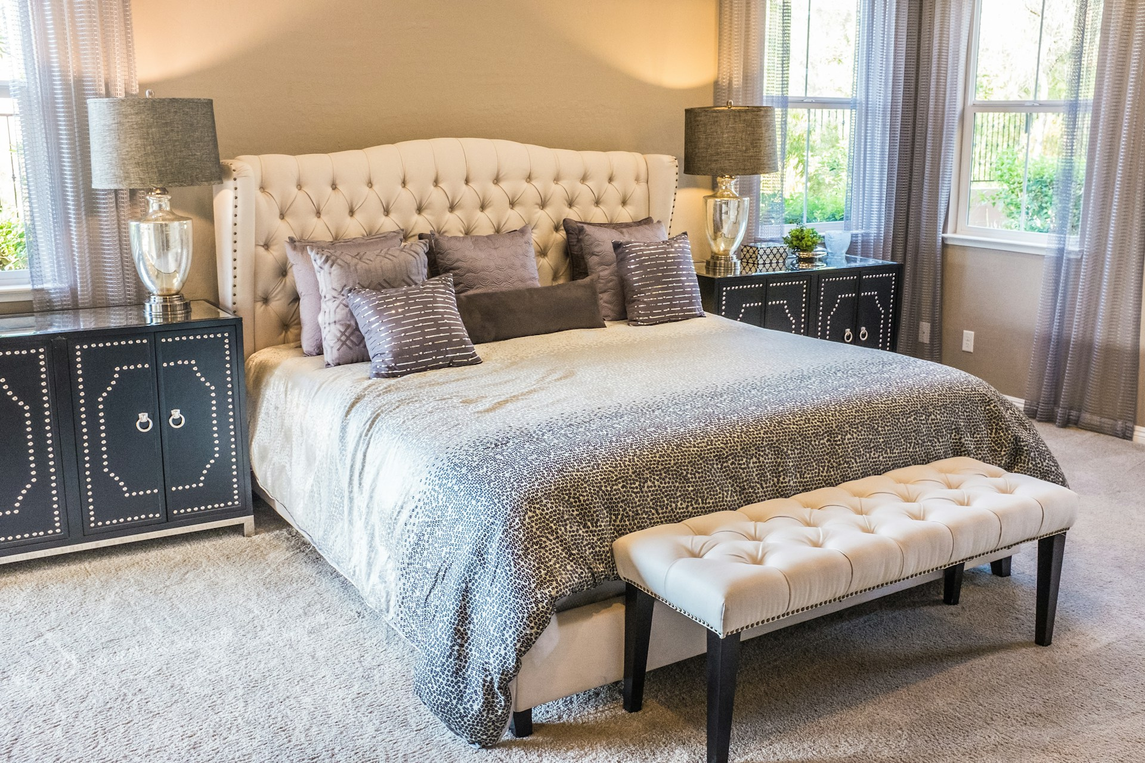
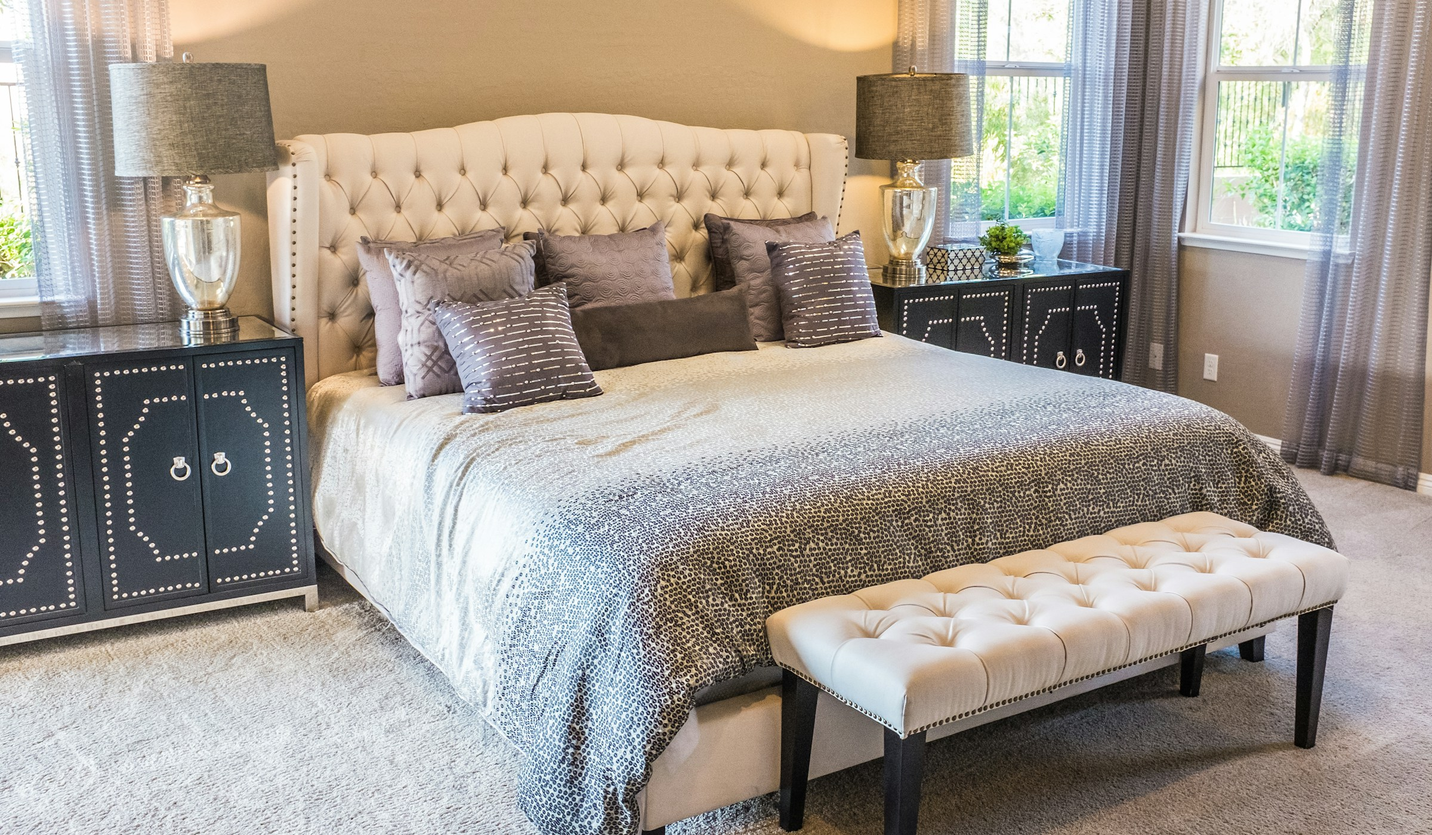
fix: resolve slide content duplication, remove rectangular overlay, standardize layer hierarchy and clean photography

diff --git a/src/components/home/HeroSection.tsx b/src/components/home/HeroSection.tsx
@@ -3,6 +3,7 @@
 import React, { useState, useEffect, useRef, useCallback } from "react";
 import Image from "next/image";
 import Link from "next/link";
+import { motion, AnimatePresence } from "framer-motion";
 import {
   ArrowRight,
   Play,
@@ -28,7 +29,7 @@ export interface HeroSlideData {
   secondaryCta: { label: string; href?: string; isVideo?: boolean };
 }
 
-export interface TrustBenefit {
+export interface TrustBenefitItem {
   icon: React.ElementType;
   title: string;
   description: string;
@@ -42,7 +43,7 @@ const HERO_SLIDES: HeroSlideData[] = [
     titleLine2: "Every Thread",
     subtitle:
       "Discover everyday luxury with beautifully crafted cotton bedsheets.",
-    image: "/images/hero/hero-slide-reference-clean.jpg",
+    image: "/images/hero/hero-slide-1.jpg",
     primaryCta: { label: "Shop Collection", href: "/collections" },
     secondaryCta: { label: "Explore Lookbook", isVideo: true },
   },
@@ -52,8 +53,8 @@ const HERO_SLIDES: HeroSlideData[] = [
     titleLine1: "Elevate Your",
     titleLine2: "Everyday",
     subtitle:
-      "Discover breathable combed cotton woven for everyday luxury and deep rest.",
-    image: "/images/hero/hero-slide-2-landscape.jpg",
+      "Discover breathable combed cotton woven for pure comfort and peaceful sleep.",
+    image: "/images/hero/hero-slide-2.jpg",
     primaryCta: { label: "Shop Collection", href: "/collections/plain-essentials" },
     secondaryCta: { label: "Explore Lookbook", isVideo: true },
   },
@@ -63,14 +64,14 @@ const HERO_SLIDES: HeroSlideData[] = [
     titleLine1: "Tradition Meets",
     titleLine2: "Elegance",
     subtitle:
-      "Discover authentic heritage-inspired patterns celebrating Pakistani craftsmanship.",
-    image: "/images/hero/hero-slide-3-landscape.jpg",
+      "Discover heritage-inspired patterns celebrating authentic Pakistani craftsmanship.",
+    image: "/images/hero/hero-slide-3.jpg",
     primaryCta: { label: "Shop Collection", href: "/collections/luxury-collection" },
     secondaryCta: { label: "Explore Lookbook", href: "/fabric-guide" },
   },
 ];
 
-const TRUST_BENEFITS: TrustBenefit[] = [
+const TRUST_BENEFITS: TrustBenefitItem[] = [
   {
     icon: Sparkles,
     title: "Premium Fabrics",
@@ -99,7 +100,7 @@ export function HeroSection() {
   const [lookbookModalOpen, setLookbookModalOpen] = useState(false);
   const [isVideoMuted, setIsVideoMuted] = useState(true);
 
-  // Touch Swipe tracking
+  // Mobile Touch Swipe tracking
   const touchStartX = useRef<number | null>(null);
   const touchEndX = useRef<number | null>(null);
 
@@ -150,7 +151,7 @@ export function HeroSection() {
     return () => window.removeEventListener("keydown", handleKeyDown);
   }, [nextSlide, prevSlide, lookbookModalOpen]);
 
-  // Mobile Touch Swipes
+  // Mobile touch swipe handling
   const handleTouchStart = (e: React.TouchEvent) => {
     touchStartX.current = e.targetTouches[0].clientX;
   };
@@ -175,7 +176,7 @@ export function HeroSection() {
 
   return (
     <section
-      className="relative w-full h-[600px] sm:h-[580px] md:h-[660px] lg:h-[720px] xl:h-[740px] overflow-hidden select-none bg-[#FAF8F5]"
+      className="relative isolate overflow-hidden w-full select-none bg-[#FAF8F5] h-[clamp(620px,calc(100svh-128px),760px)] min-h-[580px] md:h-[660px] lg:h-[730px]"
       onMouseEnter={() => setIsPaused(true)}
       onMouseLeave={() => setIsPaused(false)}
       onFocus={() => setIsPaused(true)}
@@ -186,15 +187,15 @@ export function HeroSection() {
       aria-roledescription="carousel"
       aria-label="Loom & Living Luxury Hero Slider"
     >
-      {/* 1. SEAMLESS EDGE-TO-EDGE PHOTOGRAPHY BACKGROUND */}
-      <div className="absolute inset-0 w-full h-full">
+      {/* LAYER 1: SEAMLESS BACKGROUND PHOTOGRAPHY (z-0) */}
+      <div className="absolute inset-0 z-0 w-full h-full">
         {HERO_SLIDES.map((slide, index) => {
           const isActive = index === currentSlide;
           return (
             <div
               key={slide.id}
               className={`absolute inset-0 w-full h-full transition-opacity duration-800 ease-in-out ${
-                isActive ? "opacity-100 z-10 pointer-events-auto" : "opacity-0 z-0 pointer-events-none"
+                isActive ? "opacity-100 pointer-events-auto" : "opacity-0 pointer-events-none"
               }`}
               aria-hidden={!isActive}
             >
@@ -209,19 +210,109 @@ export function HeroSection() {
                 sizes="100vw"
                 quality={92}
               />
-
-              {/* Natural-Looking Beige Gradient Wash: Only Behind Text on the Left 40-55% */}
-              <div
-                className="absolute inset-0 bg-gradient-to-r from-[#FAF8F5]/96 via-[#FAF8F5]/70 sm:via-[#FAF8F5]/45 to-transparent w-full lg:w-[55%] pointer-events-none"
-                aria-hidden="true"
-              />
             </div>
           );
         })}
       </div>
 
-      {/* 2. RIGHT-SIDE VERTICALLY STACKED SLIDER CONTROLS (01 / 03 Counter) */}
-      <div className="absolute right-3 sm:right-6 lg:right-8 top-[42%] -translate-y-1/2 flex flex-col items-center gap-2.5 z-30 pointer-events-auto">
+      {/* LAYER 2: SUBTLE NATURAL-LOOKING GRADIENT OVERLAY (z-1)
+          Covers the hero image smoothly without any rectangular card or hard edge */}
+      <div
+        className="absolute inset-0 z-1 pointer-events-none"
+        style={{
+          background:
+            "linear-gradient(90deg, rgba(248,246,241,0.92) 0%, rgba(248,246,241,0.68) 28%, rgba(248,246,241,0.15) 58%, transparent 76%)",
+        }}
+        aria-hidden="true"
+      />
+
+      {/* LAYER 3: STABLE TEXT CONTENT CONTAINER (z-2) */}
+      <div className="relative z-2 h-full container-custom flex flex-col justify-between pt-10 sm:pt-14 md:pt-16 pb-24 sm:pb-28">
+        {/* Animated Single Active Slide Content with mode="wait" to prevent duplication */}
+        <AnimatePresence mode="wait">
+          <motion.div
+            key={currentData.id}
+            initial={{ opacity: 0, y: 12 }}
+            animate={{ opacity: 1, y: 0 }}
+            exit={{ opacity: 0, y: -8 }}
+            transition={{ duration: 0.5, ease: "easeOut" }}
+            className="max-w-[560px] pl-2 sm:pl-4"
+          >
+            {/* Eyebrow label */}
+            <div className="flex items-center gap-3 mb-3">
+              <span className="text-[10px] sm:text-xs font-bold tracking-[0.24em] uppercase text-[#3B4238]">
+                {currentData.badge}
+              </span>
+              <span className="w-10 h-[1.5px] bg-[#3B4238]/40" />
+            </div>
+
+            {/* Large Serif Headline */}
+            <h1 className="font-serif text-[44px] sm:text-[56px] md:text-[68px] lg:text-[78px] font-normal text-[#1F2E19] leading-[1.02] tracking-tight mb-4">
+              <span className="block">{currentData.titleLine1}</span>
+              <span className="block font-medium">{currentData.titleLine2}</span>
+            </h1>
+
+            {/* Subtitle */}
+            <p className="font-sans text-base sm:text-lg md:text-[19px] text-[#3B4238] font-normal leading-relaxed max-w-[480px] mb-7 sm:mb-8">
+              {currentData.subtitle}
+            </p>
+
+            {/* CTA Buttons (Height 52-56px, Border Radius 14px, Gap 16px) */}
+            <div className="flex flex-wrap items-center gap-4 mb-6 sm:mb-8">
+              {/* Primary Dark Olive Button */}
+              <Link
+                href={currentData.primaryCta.href}
+                className="inline-flex items-center gap-2.5 px-7 h-[52px] sm:h-[56px] rounded-[14px] bg-[#2F4325] text-white text-sm font-semibold hover:bg-[#203118] transition-all shadow-md hover:shadow-lg active:scale-95 group focus:outline-none focus-visible:ring-2 focus-visible:ring-[#2F4325]"
+              >
+                <span>{currentData.primaryCta.label}</span>
+                <ArrowRight className="w-4 h-4 transition-transform group-hover:translate-x-1" />
+              </Link>
+
+              {/* Secondary Explore Lookbook Button */}
+              {currentData.secondaryCta.isVideo ? (
+                <button
+                  onClick={() => setLookbookModalOpen(true)}
+                  className="inline-flex items-center gap-2.5 px-6 h-[52px] sm:h-[56px] rounded-[14px] bg-[#F8F6F1] hover:bg-white text-[#292D29] text-sm font-medium border border-[#D5C7B6] transition-all shadow-xs hover:shadow-sm active:scale-95 focus:outline-none focus-visible:ring-2 focus-visible:ring-[#2F4325]"
+                >
+                  <Play className="w-3.5 h-3.5 fill-[#292D29] translate-x-0.5" />
+                  <span>{currentData.secondaryCta.label}</span>
+                </button>
+              ) : (
+                <Link
+                  href={currentData.secondaryCta.href || "/collections"}
+                  className="inline-flex items-center gap-2.5 px-6 h-[52px] sm:h-[56px] rounded-[14px] bg-[#F8F6F1] hover:bg-white text-[#292D29] text-sm font-medium border border-[#D5C7B6] transition-all shadow-xs hover:shadow-sm active:scale-95 focus:outline-none focus-visible:ring-2 focus-visible:ring-[#2F4325]"
+                >
+                  <Play className="w-3.5 h-3.5 fill-[#292D29] translate-x-0.5" />
+                  <span>{currentData.secondaryCta.label}</span>
+                </Link>
+              )}
+            </div>
+
+            {/* Small Pagination Dots under content */}
+            <div className="flex items-center gap-2.5 pl-1">
+              {HERO_SLIDES.map((_, idx) => {
+                const isActive = idx === currentSlide;
+                return (
+                  <button
+                    key={idx}
+                    onClick={() => goToSlide(idx)}
+                    className={`transition-all duration-300 rounded-full focus:outline-none focus-visible:ring-2 focus-visible:ring-[#2F4325] ${
+                      isActive
+                        ? "w-2.5 h-2.5 bg-[#2F4325] shadow-xs"
+                        : "w-2 h-2 bg-[#C7BFB5] hover:bg-[#8F877C]"
+                    }`}
+                    aria-label={`Go to slide ${idx + 1}`}
+                    aria-current={isActive ? "true" : "false"}
+                  />
+                );
+              })}
+            </div>
+          </motion.div>
+        </AnimatePresence>
+      </div>
+
+      {/* LAYER 4: RIGHT-SIDE NAVIGATION CONTROLS (z-3) */}
+      <div className="absolute right-4 sm:right-7 lg:right-10 top-[40%] -translate-y-1/2 flex flex-col items-center gap-2.5 z-3 pointer-events-auto">
         {/* Next Arrow (Top) */}
         <button
           onClick={nextSlide}
@@ -241,90 +332,15 @@ export function HeroSection() {
         </button>
 
         {/* 01 / 03 Counter */}
-        <span className="text-[11px] sm:text-xs font-semibold text-[#292D29] tracking-wider mt-0.5 select-none bg-white/70 backdrop-blur-xs px-2 py-0.5 rounded-full border border-[#E8DED0]/60">
+        <span className="text-[11px] sm:text-xs font-semibold text-[#292D29] tracking-wider mt-0.5 select-none bg-white/80 backdrop-blur-xs px-2.5 py-0.5 rounded-full border border-[#E8DED0]/70 shadow-xs">
           0{currentSlide + 1} / 0{totalSlides}
         </span>
       </div>
 
-      {/* 3. HERO CONTENT CONTAINER (Left-Aligned, Vertically Centered) */}
-      <div className="relative z-20 h-full container-custom flex flex-col justify-between pt-8 sm:pt-12 md:pt-16 pb-20 sm:pb-24">
-        {/* Left Editorial Text Area (40% width) */}
-        <div className="max-w-md sm:max-w-lg lg:max-w-xl pl-2 sm:pl-4">
-          {/* Eyebrow Label with horizontal line */}
-          <div className="flex items-center gap-3 mb-2.5 sm:mb-3">
-            <span className="text-[10px] sm:text-xs font-bold tracking-[0.24em] uppercase text-[#3B4238]">
-              {currentData.badge}
-            </span>
-            <span className="w-10 h-[1.5px] bg-[#3B4238]/40" />
-          </div>
-
-          {/* Large Serif Headline */}
-          <h1 className="font-serif text-[42px] sm:text-5xl md:text-6xl lg:text-[72px] xl:text-[80px] font-normal text-[#1F2E19] leading-[1.04] tracking-tight mb-3 sm:mb-4">
-            <span className="block">{currentData.titleLine1}</span>
-            <span className="block font-medium">{currentData.titleLine2}</span>
-          </h1>
-
-          {/* Subtitle */}
-          <p className="font-sans text-sm sm:text-base md:text-lg text-[#3B4238] font-normal leading-relaxed max-w-sm sm:max-w-md mb-6 sm:mb-7">
-            {currentData.subtitle}
-          </p>
-
-          {/* Action Buttons (Height 52px, Radius 14px) */}
-          <div className="flex flex-wrap items-center gap-3 sm:gap-3.5 mb-5 sm:mb-6">
-            {/* Primary Dark Olive Button */}
-            <Link
-              href={currentData.primaryCta.href}
-              className="inline-flex items-center gap-2.5 px-7 h-[52px] rounded-[14px] bg-[#2F4325] text-white text-sm font-semibold hover:bg-[#203118] transition-all shadow-md hover:shadow-lg active:scale-95 group focus:outline-none focus-visible:ring-2 focus-visible:ring-[#2F4325]"
-            >
-              <span>{currentData.primaryCta.label}</span>
-              <ArrowRight className="w-4 h-4 transition-transform group-hover:translate-x-1" />
-            </Link>
-
-            {/* Secondary Explore Lookbook Button */}
-            {currentData.secondaryCta.isVideo ? (
-              <button
-                onClick={() => setLookbookModalOpen(true)}
-                className="inline-flex items-center gap-2.5 px-6 h-[52px] rounded-[14px] bg-[#F8F6F1] hover:bg-white text-[#292D29] text-sm font-medium border border-[#D5C7B6] transition-all shadow-xs hover:shadow-sm active:scale-95 focus:outline-none focus-visible:ring-2 focus-visible:ring-[#2F4325]"
-              >
-                <Play className="w-3.5 h-3.5 fill-[#292D29] translate-x-0.5" />
-                <span>{currentData.secondaryCta.label}</span>
-              </button>
-            ) : (
-              <Link
-                href={currentData.secondaryCta.href || "/collections"}
-                className="inline-flex items-center gap-2.5 px-6 h-[52px] rounded-[14px] bg-[#F8F6F1] hover:bg-white text-[#292D29] text-sm font-medium border border-[#D5C7B6] transition-all shadow-xs hover:shadow-sm active:scale-95 focus:outline-none focus-visible:ring-2 focus-visible:ring-[#2F4325]"
-              >
-                <Play className="w-3.5 h-3.5 fill-[#292D29] translate-x-0.5" />
-                <span>{currentData.secondaryCta.label}</span>
-              </Link>
-            )}
-          </div>
-
-          {/* Small Left Pagination Dots (Under buttons) */}
-          <div className="flex items-center gap-2 pl-1">
-            {HERO_SLIDES.map((_, idx) => {
-              const isActive = idx === currentSlide;
-              return (
-                <button
-                  key={idx}
-                  onClick={() => goToSlide(idx)}
-                  className={`transition-all duration-300 rounded-full focus:outline-none focus-visible:ring-2 focus-visible:ring-[#2F4325] ${
-                    isActive
-                      ? "w-2.5 h-2.5 bg-[#2F4325] shadow-xs"
-                      : "w-2 h-2 bg-[#C7BFB5] hover:bg-[#8F877C]"
-                  }`}
-                  aria-label={`Go to slide ${idx + 1}`}
-                  aria-current={isActive ? "true" : "false"}
-                />
-              );
-            })}
-          </div>
-        </div>
-      </div>
-
-      {/* 4. FLOATING TRUST BENEFITS BAR (Near Bottom of Hero, Margin 5%, Bottom 25-35px) */}
-      <div className="absolute bottom-5 sm:bottom-7 md:bottom-8 left-[3%] right-[3%] lg:left-[5%] lg:right-[5%] z-20 pointer-events-auto">
-        <div className="max-w-6xl mx-auto bg-white/95 backdrop-blur-md rounded-[24px] md:rounded-[32px] py-3.5 sm:py-4 px-5 sm:px-8 border border-[#E8DED0]/90 shadow-md">
+      {/* LAYER 5: FLOATING TRUST BENEFITS BAR (z-4)
+          Centered horizontally, Width min(90%, 1450px), Bottom 28px, Radius 28px */}
+      <div className="absolute bottom-6 sm:bottom-7 md:bottom-7 inset-x-0 mx-auto w-[92%] max-w-[1450px] z-4 pointer-events-auto">
+        <div className="bg-white/95 backdrop-blur-md rounded-[24px] md:rounded-[28px] py-3.5 sm:py-4 px-5 sm:px-8 border border-[#E8DED0]/90 shadow-md">
           <div className="grid grid-cols-2 md:grid-cols-4 gap-3 sm:gap-4 md:divide-x md:divide-[#E8DED0]/80">
             {TRUST_BENEFITS.map((item) => {
               const Icon = item.icon;
@@ -348,7 +364,7 @@ export function HeroSection() {
         </div>
       </div>
 
-      {/* 5. WATCH LOOKBOOK MODAL */}
+      {/* LOOKBOOK MODAL (High z-index: z-50) */}
       {lookbookModalOpen && (
         <div
           className="fixed inset-0 z-50 flex items-center justify-center p-4 bg-black/80 backdrop-blur-md animate-in fade-in duration-200"
@@ -390,7 +406,7 @@ export function HeroSection() {
             {/* Video Showcase Area */}
             <div className="relative aspect-video w-full bg-[#121A0F] flex items-center justify-center overflow-hidden">
               <Image
-                src="/images/hero/hero-slide-reference-clean.jpg"
+                src="/images/hero/hero-slide-1.jpg"
                 alt="Craftsmanship Video Showcase"
                 fill
                 className="object-cover opacity-65"
